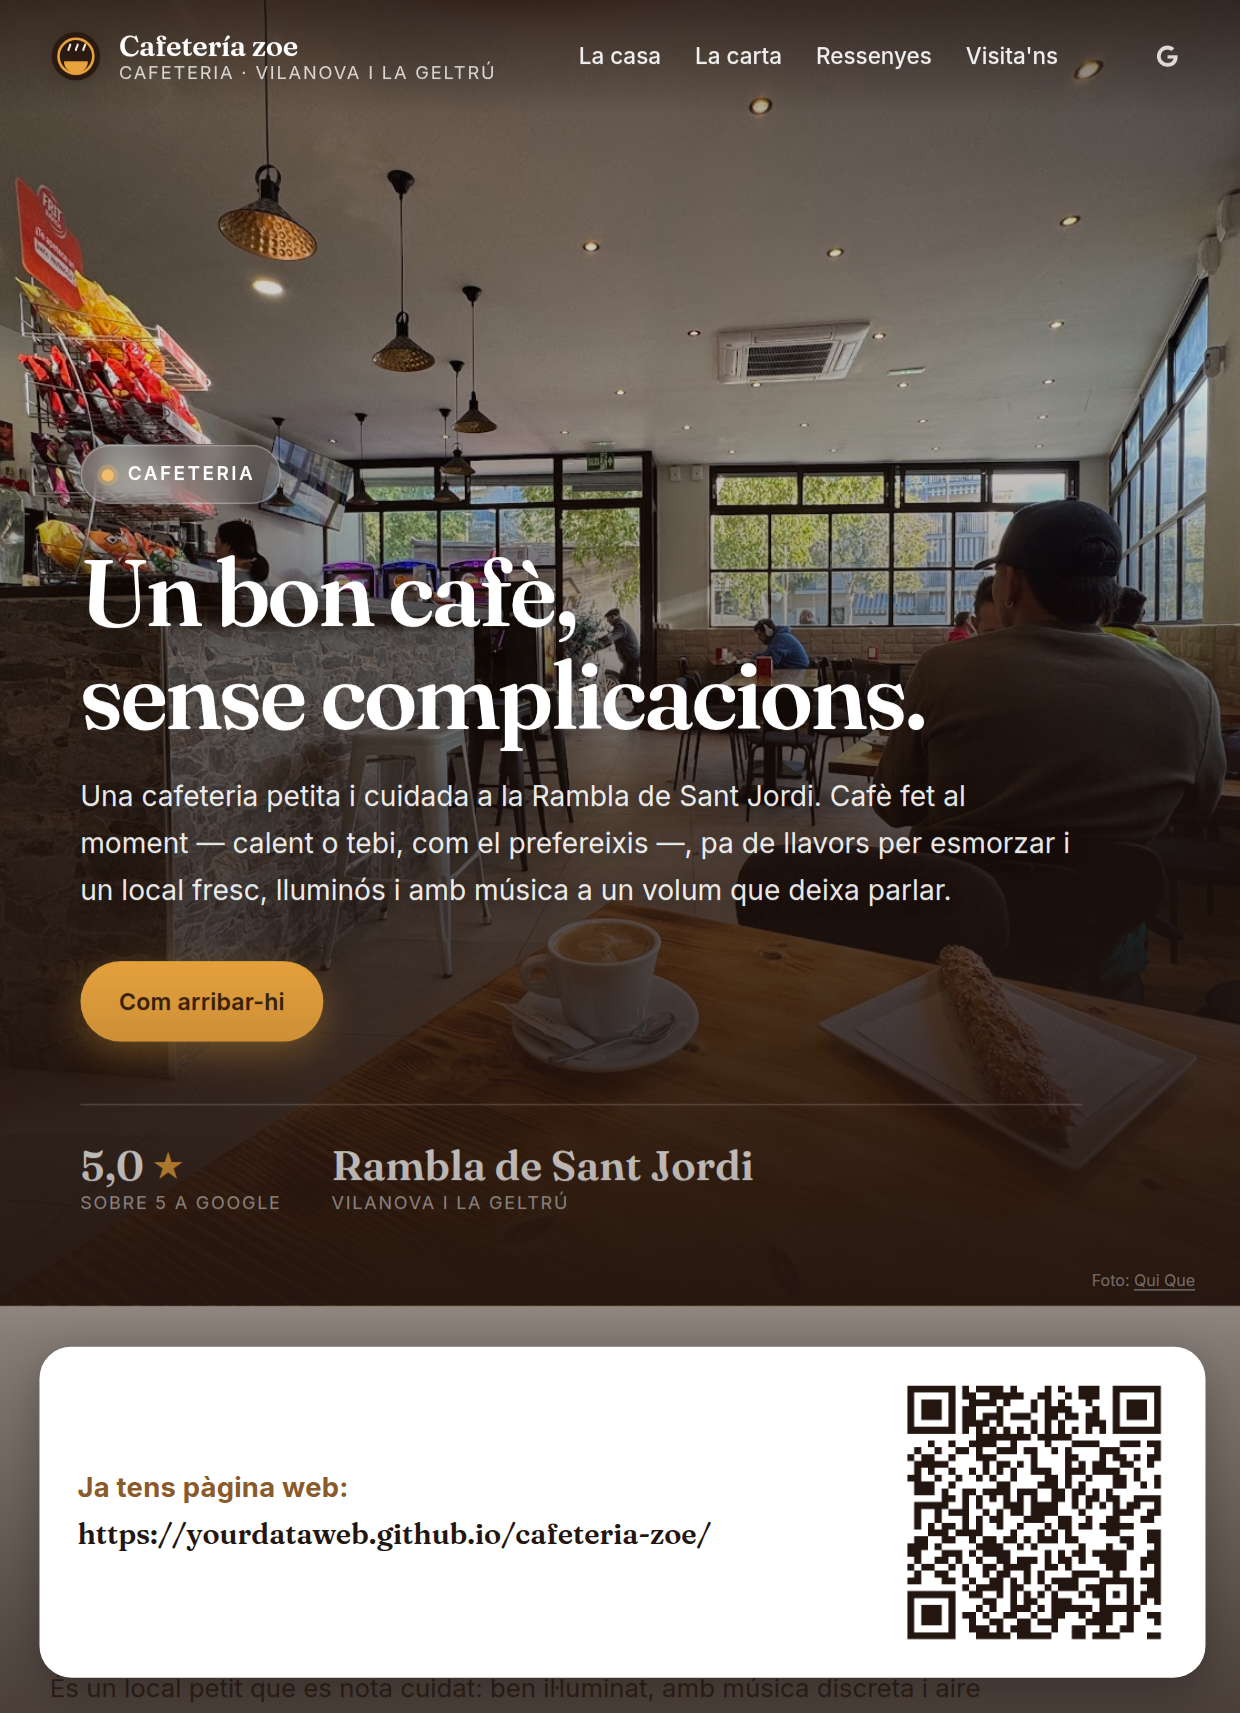
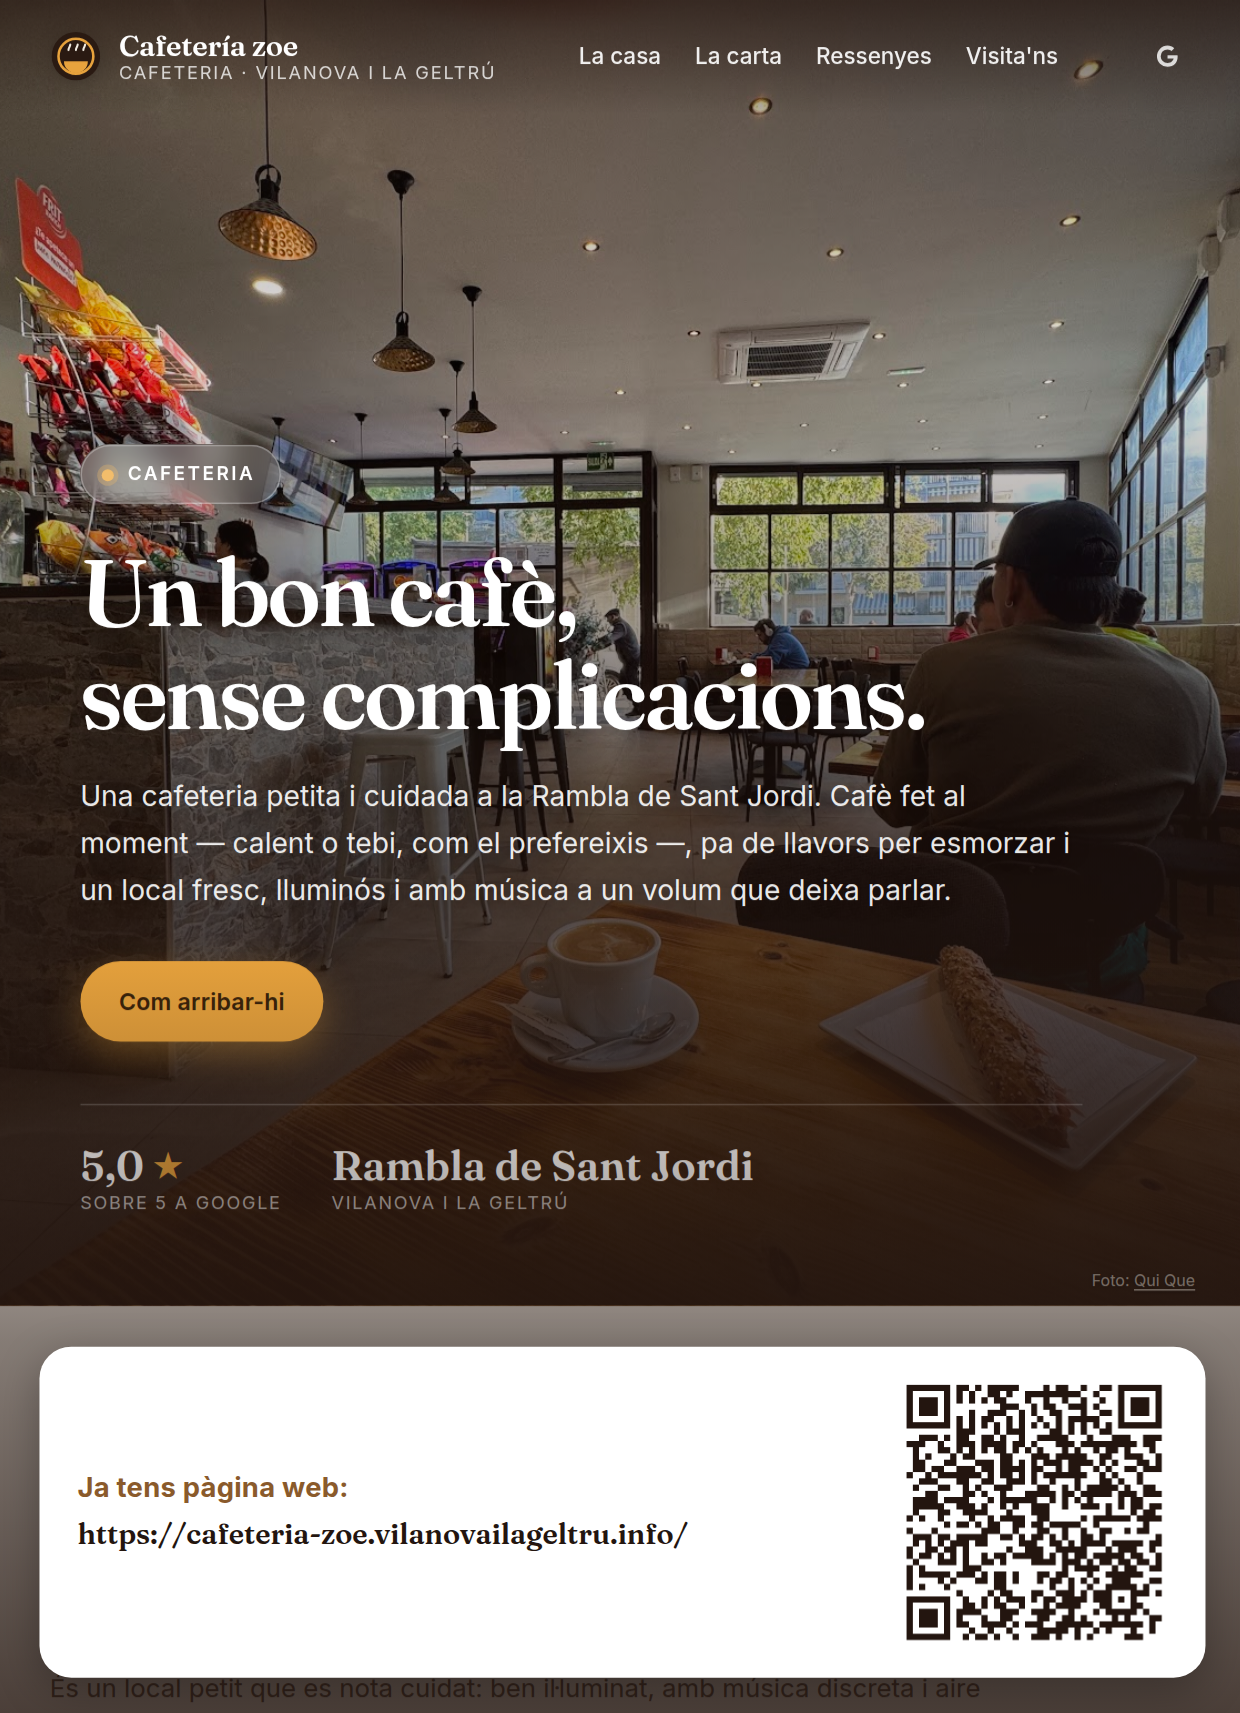
Serve the site from its own subdomain
Canonical, og:url, hreflang, sitemap, the OG image URL and the handover QR all
advertised the GitHub Pages path, which is no longer where the site lives. They
now derive from <code-name>.vilanovailageltru.info, one constant in the build.

The handover QR, regenerated, decodes to the subdomain.

Changed region(s): [[0.7355, 0.8044, 0.95, 0.9591], [0.3065, 0.8663, 0.5516, 0.9282], [0.1532, 0.8663, 0.2758, 0.9282]]

diff --git a/es/index.html b/es/index.html
@@ -8,11 +8,11 @@
 <meta name="theme-color" content="#2a1a12">
 <meta name="format-detection" content="telephone=no">
 
-<link rel="canonical" href="https://yourdataweb.github.io/cafeteria-zoe/es/">
-<link rel="alternate" hreflang="ca-ES" href="https://yourdataweb.github.io/cafeteria-zoe/">
-<link rel="alternate" hreflang="es-ES" href="https://yourdataweb.github.io/cafeteria-zoe/es/">
-<link rel="alternate" hreflang="en-GB" href="https://yourdataweb.github.io/cafeteria-zoe/en/">
-<link rel="alternate" hreflang="x-default" href="https://yourdataweb.github.io/cafeteria-zoe/">
+<link rel="canonical" href="https://cafeteria-zoe.vilanovailageltru.info/es/">
+<link rel="alternate" hreflang="ca-ES" href="https://cafeteria-zoe.vilanovailageltru.info/">
+<link rel="alternate" hreflang="es-ES" href="https://cafeteria-zoe.vilanovailageltru.info/es/">
+<link rel="alternate" hreflang="en-GB" href="https://cafeteria-zoe.vilanovailageltru.info/en/">
+<link rel="alternate" hreflang="x-default" href="https://cafeteria-zoe.vilanovailageltru.info/">
 
 <!-- Google Analytics 4, consent-gated: nothing is fetched from Google until the
      visitor accepts, and storage stays denied by default until then. -->
@@ -67,18 +67,18 @@
 <meta property="og:site_name" content="Cafetería zoe">
 <meta property="og:title" content="Cafetería zoe — Café de barrio en Vilanova i la Geltrú">
 <meta property="og:description" content="Café bien hecho, pan de semillas y un local fresco y tranquilo en la Rambla de Sant Jordi. 5,0 sobre 5 en Google.">
-<meta property="og:image" content="https://yourdataweb.github.io/cafeteria-zoe/assets/photos/og.png">
+<meta property="og:image" content="https://cafeteria-zoe.vilanovailageltru.info/assets/photos/og.png">
 <meta property="og:image:width" content="1200">
 <meta property="og:image:height" content="630">
 <meta property="og:image:alt" content="Ilustración del interior de Cafetería zoe, con tazas de café y mesas junto a la ventana">
-<meta property="og:url" content="https://yourdataweb.github.io/cafeteria-zoe/es/">
+<meta property="og:url" content="https://cafeteria-zoe.vilanovailageltru.info/es/">
 <meta property="og:locale" content="es_ES">
 <meta property="og:locale:alternate" content="ca_ES">
 <meta property="og:locale:alternate" content="en_GB">
 <meta name="twitter:card" content="summary_large_image">
 <meta name="twitter:title" content="Cafetería zoe — Café de barrio en Vilanova i la Geltrú">
 <meta name="twitter:description" content="Café bien hecho, pan de semillas y un local fresco y tranquilo en la Rambla de Sant Jordi. 5,0 sobre 5 en Google.">
-<meta name="twitter:image" content="https://yourdataweb.github.io/cafeteria-zoe/assets/photos/og.png">
+<meta name="twitter:image" content="https://cafeteria-zoe.vilanovailageltru.info/assets/photos/og.png">
 
 <link rel="icon" href="../assets/photos/favicon.svg" type="image/svg+xml">
 <link rel="apple-touch-icon" href="../assets/photos/apple-touch-icon.png">
@@ -101,12 +101,12 @@
 <script type="application/ld+json">{
   "@context": "https://schema.org",
   "@type": "CafeOrCoffeeShop",
-  "@id": "https://yourdataweb.github.io/cafeteria-zoe/es/",
+  "@id": "https://cafeteria-zoe.vilanovailageltru.info/es/",
   "name": "Cafetería zoe",
-  "url": "https://yourdataweb.github.io/cafeteria-zoe/es/",
+  "url": "https://cafeteria-zoe.vilanovailageltru.info/es/",
   "image": {
     "@type": "ImageObject",
-    "contentUrl": "https://yourdataweb.github.io/cafeteria-zoe/assets/photos/hero-photo.jpg",
+    "contentUrl": "https://cafeteria-zoe.vilanovailageltru.info/assets/photos/hero-photo.jpg",
     "creditText": "Qui Que",
     "creator": {
       "@type": "Person",

diff --git a/en/index.html b/en/index.html
@@ -8,11 +8,11 @@
 <meta name="theme-color" content="#2a1a12">
 <meta name="format-detection" content="telephone=no">
 
-<link rel="canonical" href="https://yourdataweb.github.io/cafeteria-zoe/en/">
-<link rel="alternate" hreflang="ca-ES" href="https://yourdataweb.github.io/cafeteria-zoe/">
-<link rel="alternate" hreflang="es-ES" href="https://yourdataweb.github.io/cafeteria-zoe/es/">
-<link rel="alternate" hreflang="en-GB" href="https://yourdataweb.github.io/cafeteria-zoe/en/">
-<link rel="alternate" hreflang="x-default" href="https://yourdataweb.github.io/cafeteria-zoe/">
+<link rel="canonical" href="https://cafeteria-zoe.vilanovailageltru.info/en/">
+<link rel="alternate" hreflang="ca-ES" href="https://cafeteria-zoe.vilanovailageltru.info/">
+<link rel="alternate" hreflang="es-ES" href="https://cafeteria-zoe.vilanovailageltru.info/es/">
+<link rel="alternate" hreflang="en-GB" href="https://cafeteria-zoe.vilanovailageltru.info/en/">
+<link rel="alternate" hreflang="x-default" href="https://cafeteria-zoe.vilanovailageltru.info/">
 
 <!-- Google Analytics 4, consent-gated: nothing is fetched from Google until the
      visitor accepts, and storage stays denied by default until then. -->
@@ -67,18 +67,18 @@
 <meta property="og:site_name" content="Cafetería zoe">
 <meta property="og:title" content="Cafetería zoe — Neighbourhood coffee shop in Vilanova i la Geltrú">
 <meta property="og:description" content="Good coffee, seeded bread and a cool, calm room on Rambla de Sant Jordi. Rated 5.0 out of 5 on Google.">
-<meta property="og:image" content="https://yourdataweb.github.io/cafeteria-zoe/assets/photos/og.png">
+<meta property="og:image" content="https://cafeteria-zoe.vilanovailageltru.info/assets/photos/og.png">
 <meta property="og:image:width" content="1200">
 <meta property="og:image:height" content="630">
 <meta property="og:image:alt" content="Illustration of the inside of Cafetería zoe, with coffee cups and tables by the window">
-<meta property="og:url" content="https://yourdataweb.github.io/cafeteria-zoe/en/">
+<meta property="og:url" content="https://cafeteria-zoe.vilanovailageltru.info/en/">
 <meta property="og:locale" content="en_GB">
 <meta property="og:locale:alternate" content="ca_ES">
 <meta property="og:locale:alternate" content="es_ES">
 <meta name="twitter:card" content="summary_large_image">
 <meta name="twitter:title" content="Cafetería zoe — Neighbourhood coffee shop in Vilanova i la Geltrú">
 <meta name="twitter:description" content="Good coffee, seeded bread and a cool, calm room on Rambla de Sant Jordi. Rated 5.0 out of 5 on Google.">
-<meta name="twitter:image" content="https://yourdataweb.github.io/cafeteria-zoe/assets/photos/og.png">
+<meta name="twitter:image" content="https://cafeteria-zoe.vilanovailageltru.info/assets/photos/og.png">
 
 <link rel="icon" href="../assets/photos/favicon.svg" type="image/svg+xml">
 <link rel="apple-touch-icon" href="../assets/photos/apple-touch-icon.png">
@@ -101,12 +101,12 @@
 <script type="application/ld+json">{
   "@context": "https://schema.org",
   "@type": "CafeOrCoffeeShop",
-  "@id": "https://yourdataweb.github.io/cafeteria-zoe/en/",
+  "@id": "https://cafeteria-zoe.vilanovailageltru.info/en/",
   "name": "Cafetería zoe",
-  "url": "https://yourdataweb.github.io/cafeteria-zoe/en/",
+  "url": "https://cafeteria-zoe.vilanovailageltru.info/en/",
   "image": {
     "@type": "ImageObject",
-    "contentUrl": "https://yourdataweb.github.io/cafeteria-zoe/assets/photos/hero-photo.jpg",
+    "contentUrl": "https://cafeteria-zoe.vilanovailageltru.info/assets/photos/hero-photo.jpg",
     "creditText": "Qui Que",
     "creator": {
       "@type": "Person",

diff --git a/index.html b/index.html
@@ -8,11 +8,11 @@
 <meta name="theme-color" content="#2a1a12">
 <meta name="format-detection" content="telephone=no">
 
-<link rel="canonical" href="https://yourdataweb.github.io/cafeteria-zoe/">
-<link rel="alternate" hreflang="ca-ES" href="https://yourdataweb.github.io/cafeteria-zoe/">
-<link rel="alternate" hreflang="es-ES" href="https://yourdataweb.github.io/cafeteria-zoe/es/">
-<link rel="alternate" hreflang="en-GB" href="https://yourdataweb.github.io/cafeteria-zoe/en/">
-<link rel="alternate" hreflang="x-default" href="https://yourdataweb.github.io/cafeteria-zoe/">
+<link rel="canonical" href="https://cafeteria-zoe.vilanovailageltru.info/">
+<link rel="alternate" hreflang="ca-ES" href="https://cafeteria-zoe.vilanovailageltru.info/">
+<link rel="alternate" hreflang="es-ES" href="https://cafeteria-zoe.vilanovailageltru.info/es/">
+<link rel="alternate" hreflang="en-GB" href="https://cafeteria-zoe.vilanovailageltru.info/en/">
+<link rel="alternate" hreflang="x-default" href="https://cafeteria-zoe.vilanovailageltru.info/">
 
 <!-- Google Analytics 4, consent-gated: nothing is fetched from Google until the
      visitor accepts, and storage stays denied by default until then. -->
@@ -67,18 +67,18 @@
 <meta property="og:site_name" content="Cafetería zoe">
 <meta property="og:title" content="Cafeteria zoe — Cafè de barri a Vilanova i la Geltrú">
 <meta property="og:description" content="Cafè ben fet, pa de llavors i un local fresc i tranquil a la Rambla de Sant Jordi. 5,0 sobre 5 a Google.">
-<meta property="og:image" content="https://yourdataweb.github.io/cafeteria-zoe/assets/photos/og.png">
+<meta property="og:image" content="https://cafeteria-zoe.vilanovailageltru.info/assets/photos/og.png">
 <meta property="og:image:width" content="1200">
 <meta property="og:image:height" content="630">
 <meta property="og:image:alt" content="Il·lustració de l&#39;interior de Cafeteria zoe, amb tasses de cafè i taules vora la finestra">
-<meta property="og:url" content="https://yourdataweb.github.io/cafeteria-zoe/">
+<meta property="og:url" content="https://cafeteria-zoe.vilanovailageltru.info/">
 <meta property="og:locale" content="ca_ES">
 <meta property="og:locale:alternate" content="es_ES">
 <meta property="og:locale:alternate" content="en_GB">
 <meta name="twitter:card" content="summary_large_image">
 <meta name="twitter:title" content="Cafeteria zoe — Cafè de barri a Vilanova i la Geltrú">
 <meta name="twitter:description" content="Cafè ben fet, pa de llavors i un local fresc i tranquil a la Rambla de Sant Jordi. 5,0 sobre 5 a Google.">
-<meta name="twitter:image" content="https://yourdataweb.github.io/cafeteria-zoe/assets/photos/og.png">
+<meta name="twitter:image" content="https://cafeteria-zoe.vilanovailageltru.info/assets/photos/og.png">
 
 <link rel="icon" href="./assets/photos/favicon.svg" type="image/svg+xml">
 <link rel="apple-touch-icon" href="./assets/photos/apple-touch-icon.png">
@@ -101,12 +101,12 @@
 <script type="application/ld+json">{
   "@context": "https://schema.org",
   "@type": "CafeOrCoffeeShop",
-  "@id": "https://yourdataweb.github.io/cafeteria-zoe/",
+  "@id": "https://cafeteria-zoe.vilanovailageltru.info/",
   "name": "Cafetería zoe",
-  "url": "https://yourdataweb.github.io/cafeteria-zoe/",
+  "url": "https://cafeteria-zoe.vilanovailageltru.info/",
   "image": {
     "@type": "ImageObject",
-    "contentUrl": "https://yourdataweb.github.io/cafeteria-zoe/assets/photos/hero-photo.jpg",
+    "contentUrl": "https://cafeteria-zoe.vilanovailageltru.info/assets/photos/hero-photo.jpg",
     "creditText": "Qui Que",
     "creator": {
       "@type": "Person",

diff --git a/ca/index.html b/ca/index.html
@@ -1,5 +1,5 @@
 <!DOCTYPE html><html lang="ca"><head><meta charset="utf-8">
-<link rel="canonical" href="https://yourdataweb.github.io/cafeteria-zoe/">
+<link rel="canonical" href="https://cafeteria-zoe.vilanovailageltru.info/">
 <meta name="robots" content="noindex,follow">
 <meta http-equiv="refresh" content="0; url=../">
 <title>Continua</title>

diff --git a/README.md b/README.md
@@ -2,9 +2,9 @@
 
 Trilingual static website for **Cafetería zoe**, a coffee shop on Rambla de Sant Jordi, Vilanova i la Geltrú (Barcelona).
 
-**Live (Català, default):** https://yourdataweb.github.io/cafeteria-zoe/
-**Español:** https://yourdataweb.github.io/cafeteria-zoe/es/
-**English:** https://yourdataweb.github.io/cafeteria-zoe/en/
+**Live (Català, default):** https://cafeteria-zoe.vilanovailageltru.info/
+**Español:** https://cafeteria-zoe.vilanovailageltru.info/es/
+**English:** https://cafeteria-zoe.vilanovailageltru.info/en/
 
 Hand-written HTML, CSS and vanilla JS with a small dependency-free build step. No framework, no runtime dependencies, no client-side rendering.
 
@@ -126,7 +126,7 @@ guessing 72 dpi.
 
 The image shows the page top with an overlay: a QR code pointing at the live
 URL, bottom-right, and the caption *"Ja tens pàgina web:
-https://yourdataweb.github.io/cafeteria-zoe/"* beside it.
+https://cafeteria-zoe.vilanovailageltru.info/"* beside it.
 
 The page renders at 820 CSS px so the card shows the tablet layout (nav bar
 visible) rather than the phone layout the site switches to at 780 px and below.
